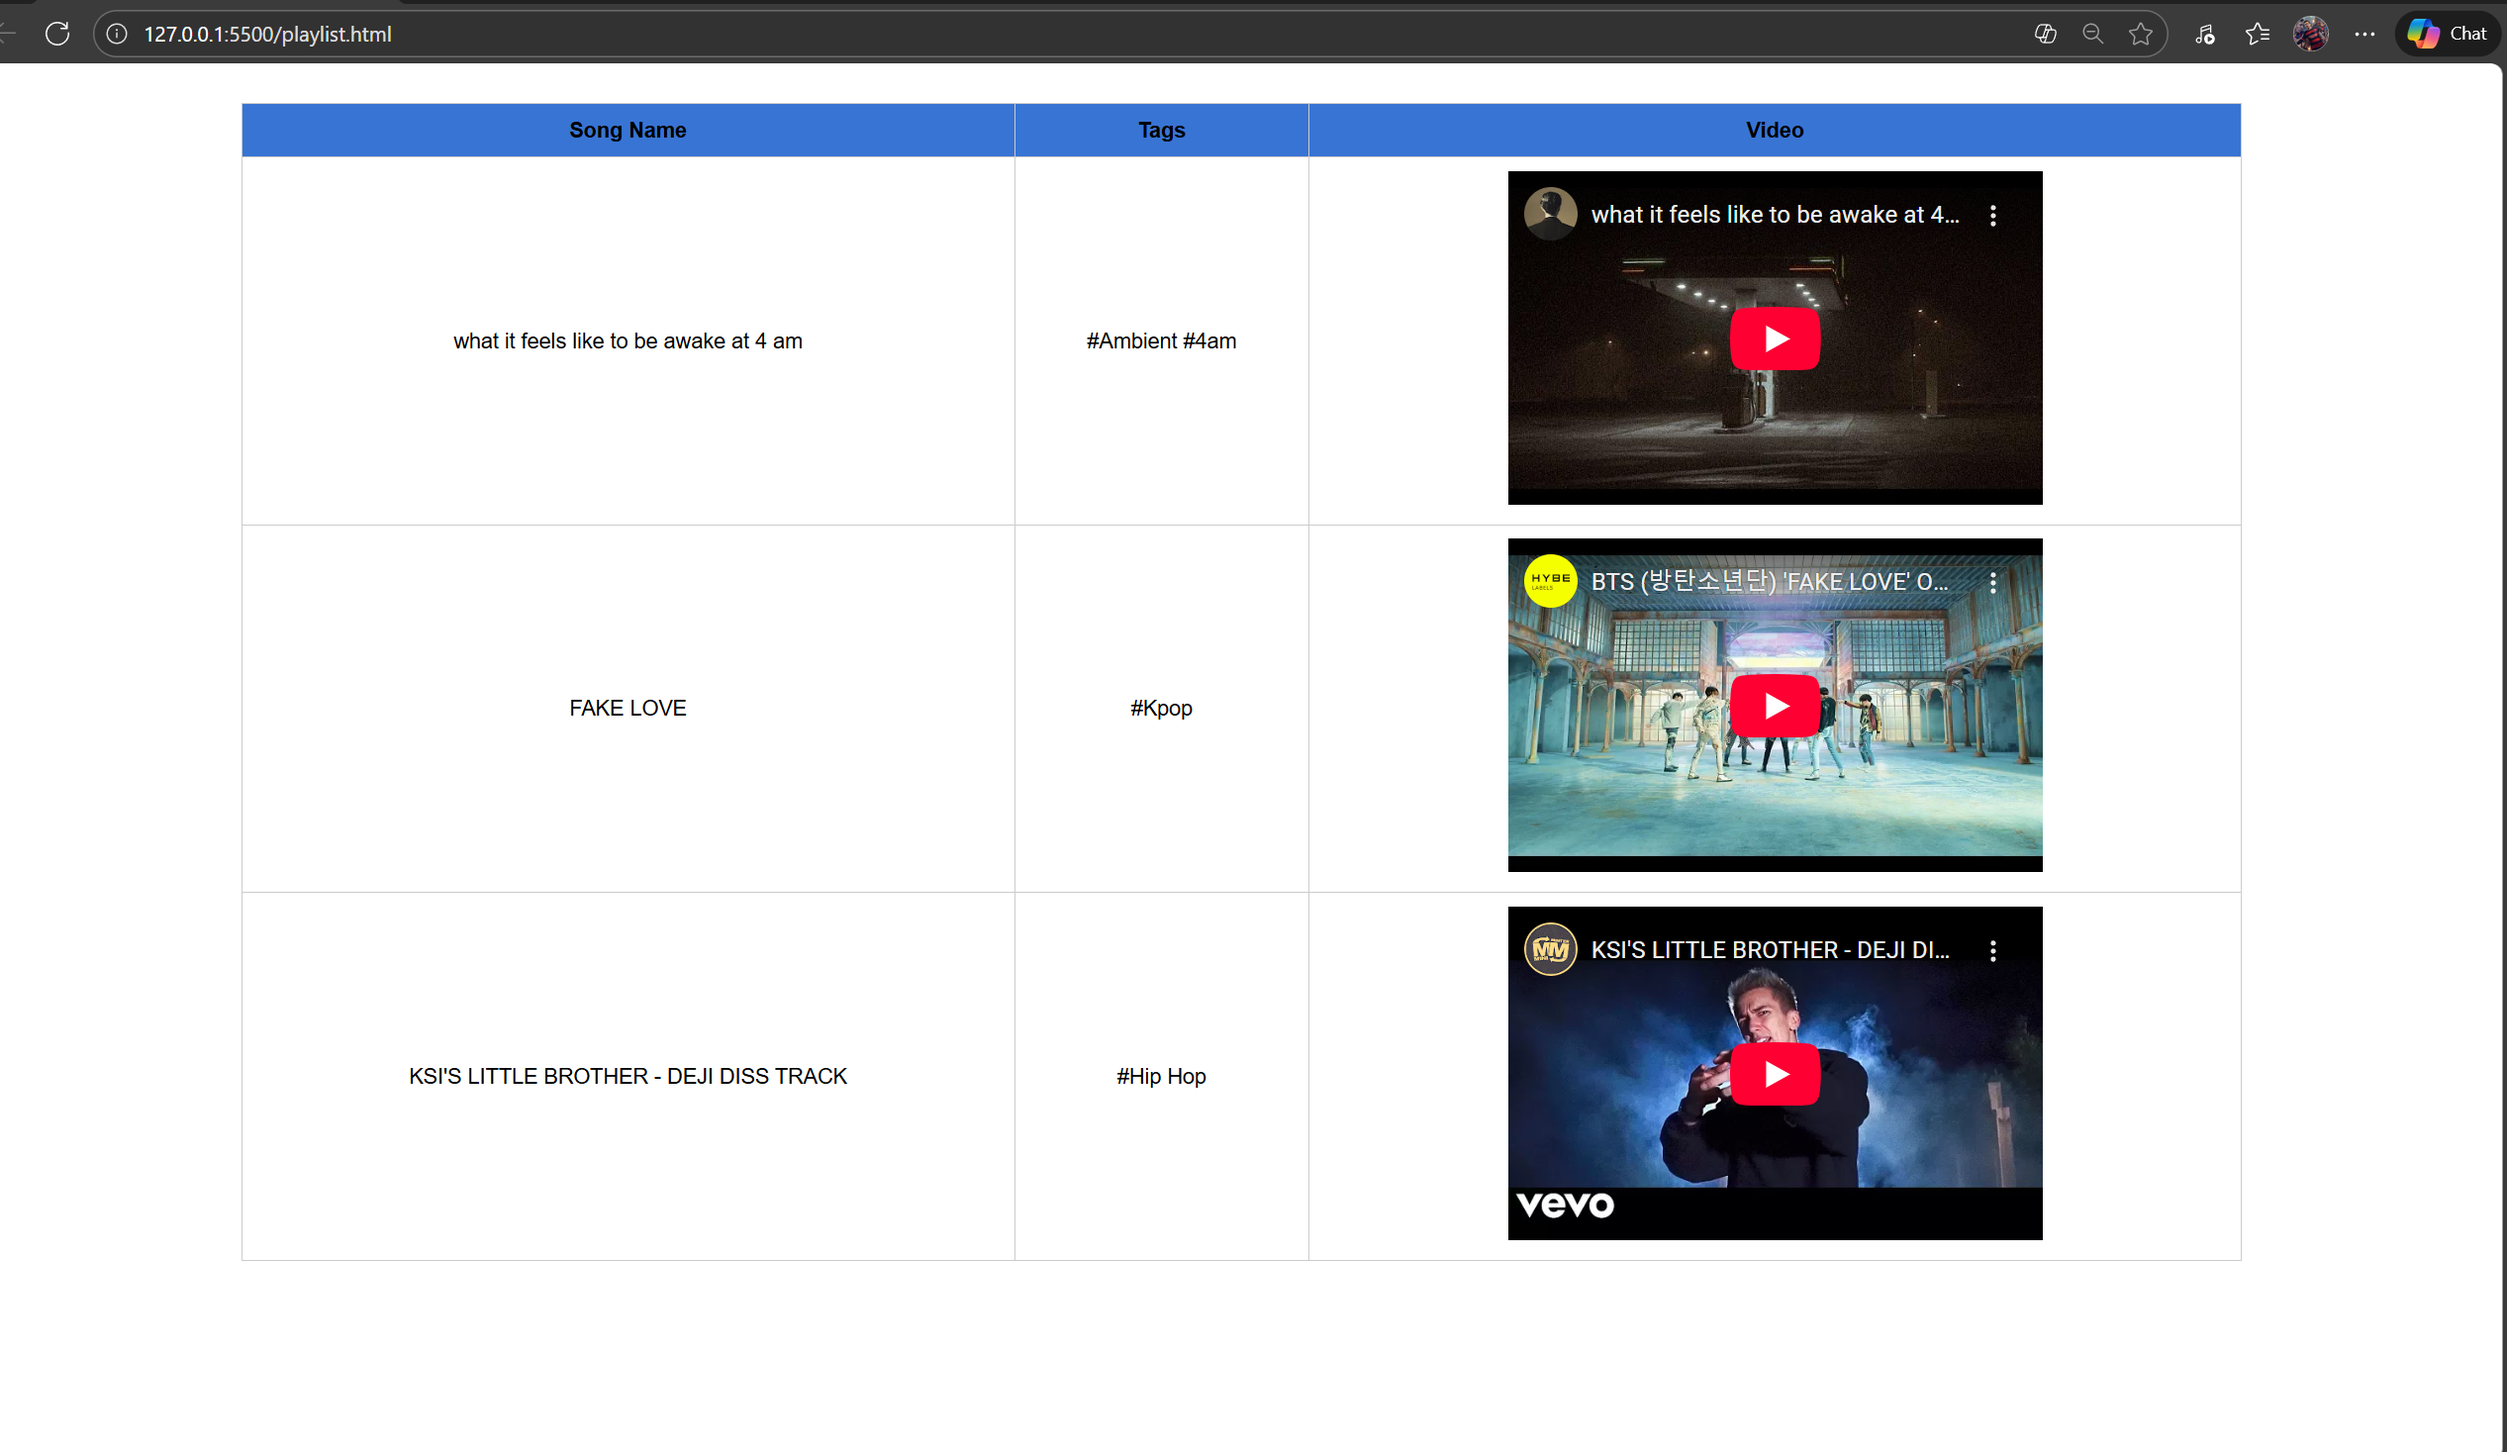
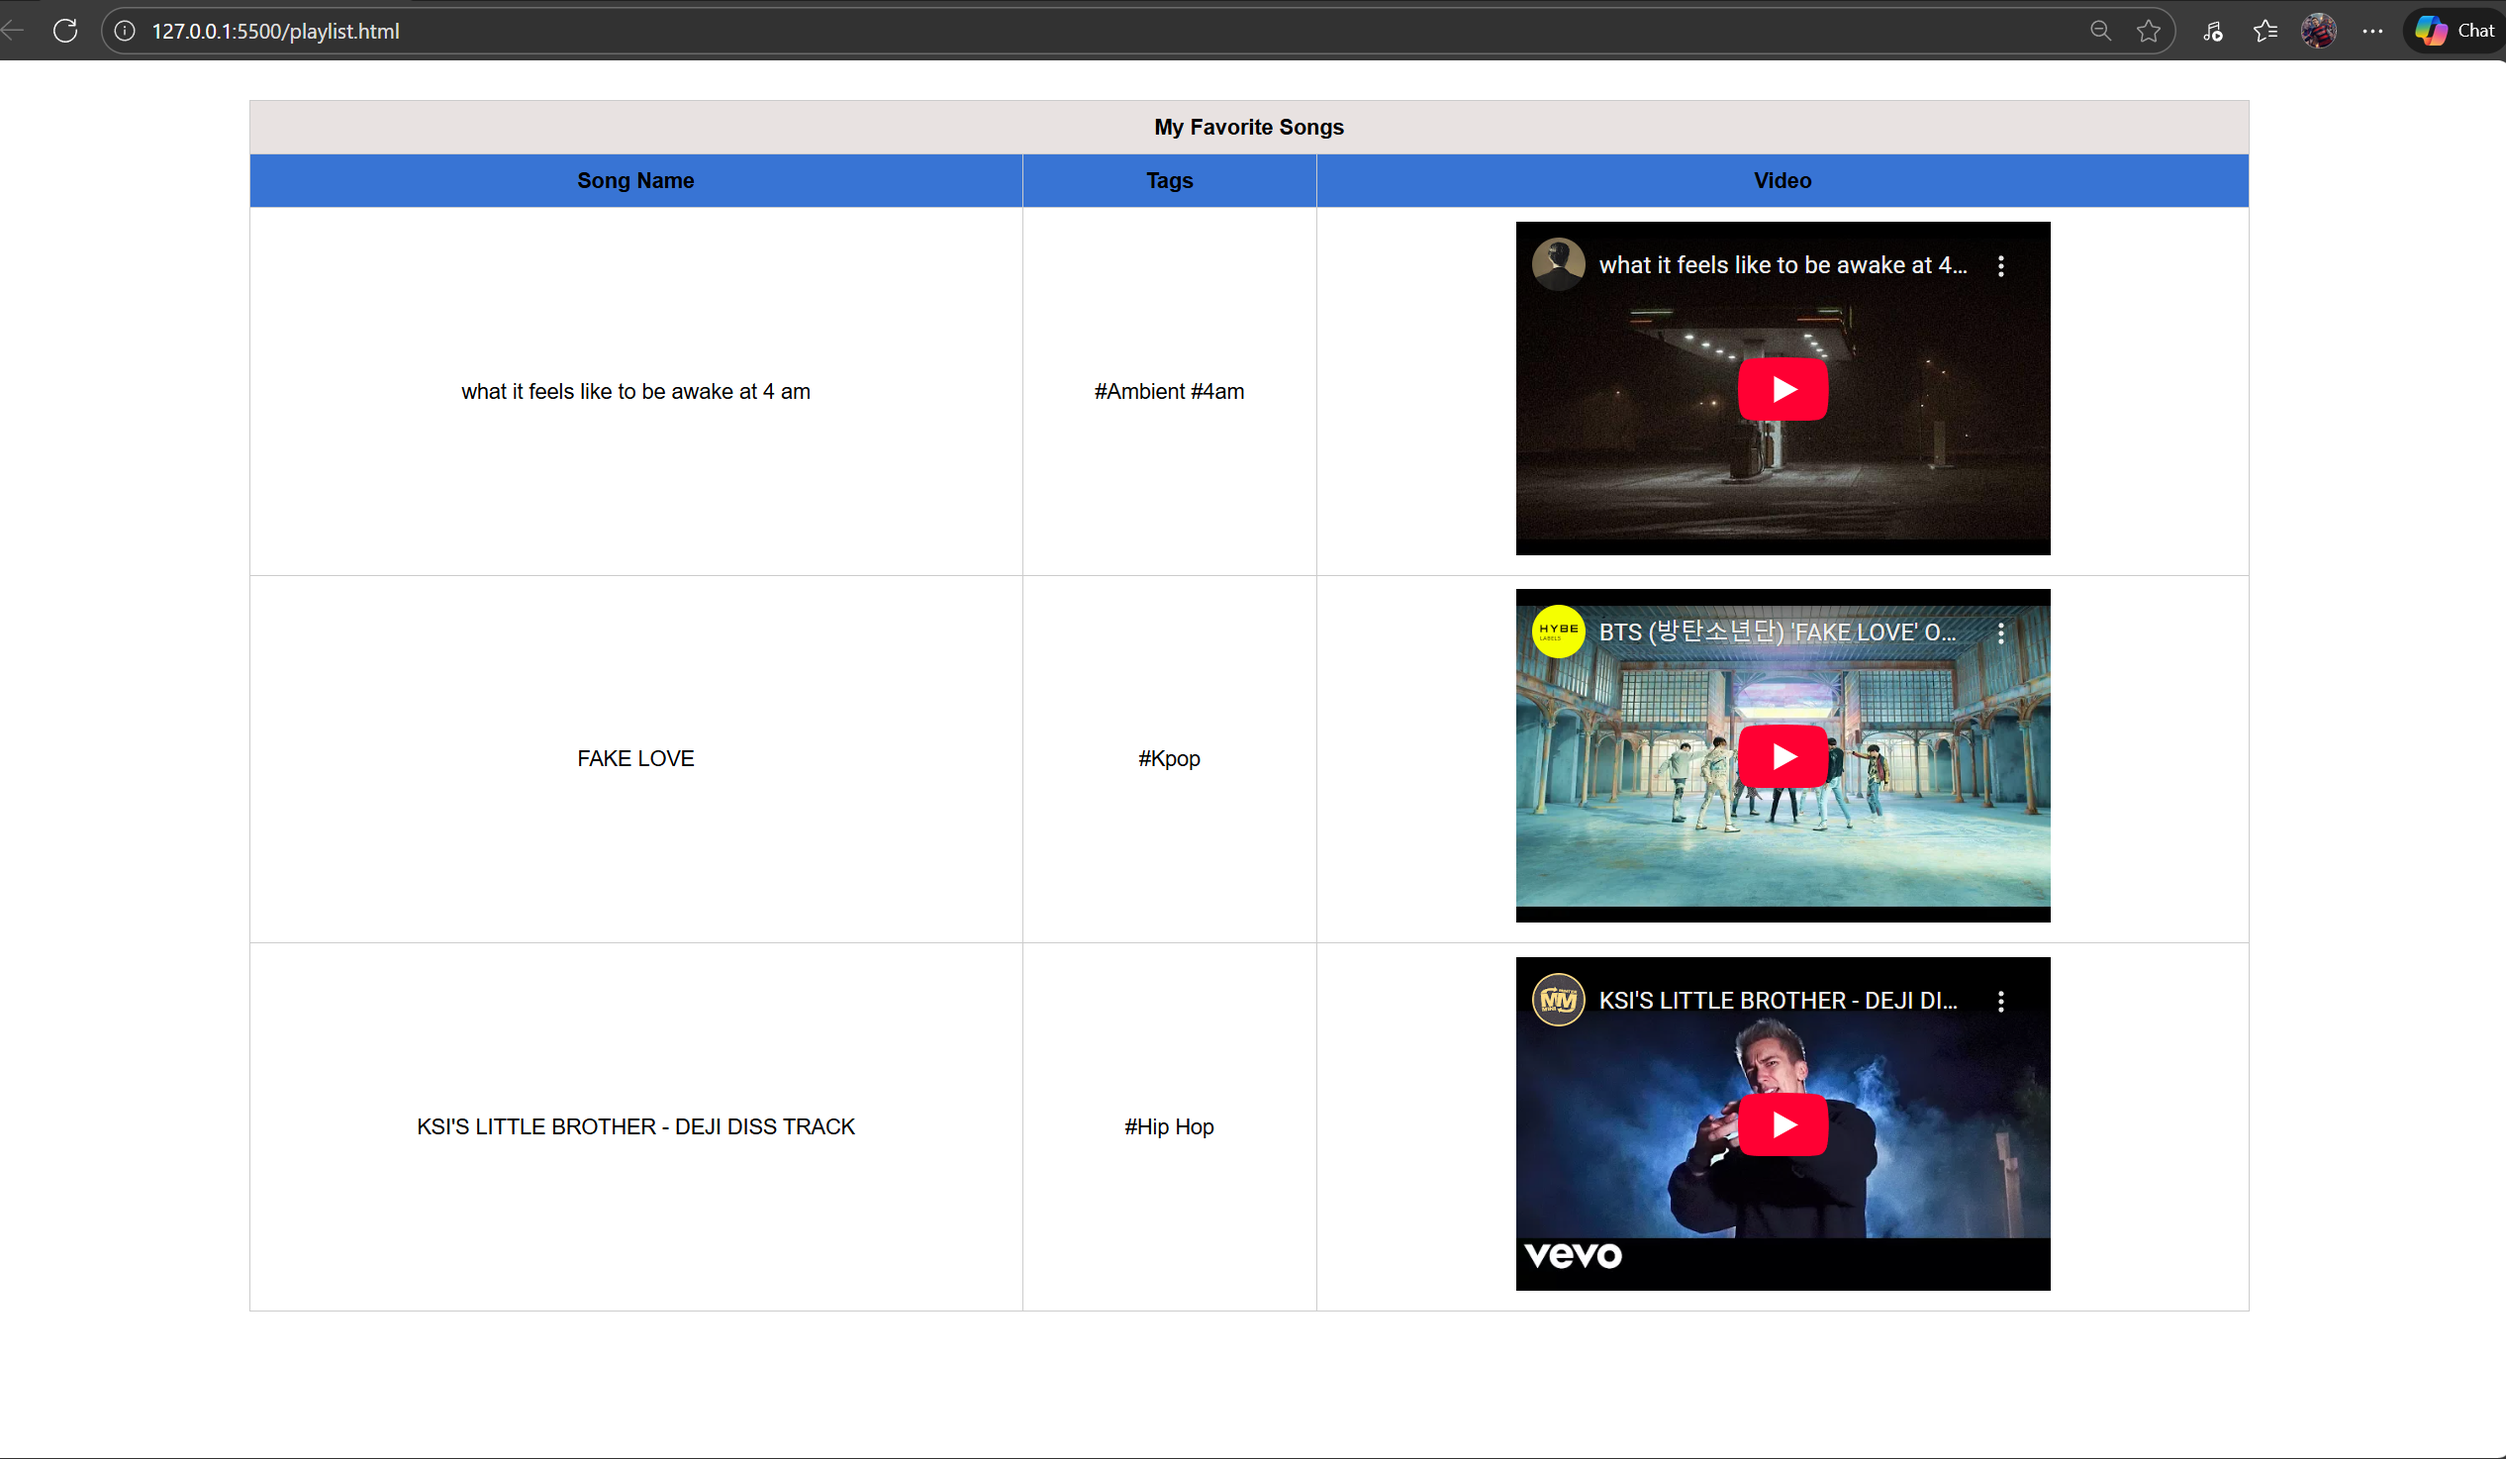
added more screenshots and edited the style of the site

diff --git a/01_HW/playlist.css b/01_HW/playlist.css
@@ -1,26 +1,46 @@
 table {
-      border-collapse: collapse;
-      width: 80%;
-      margin: 30px auto;
-      font-family: Arial, sans-serif;
-    }
-    th, td {
-      border: 1px solid #ccc;
-      text-align: center;
-      padding: 10px;
-    }
-    th {
-      background-color: #3874d4;
-    }
-    img {
-      width: 120px;
-      height: auto;
-      border-radius: 5px;
-    }
-    a {
-      color: #0073e6;
-      text-decoration: none;
-    }
-    a:hover {
-      text-decoration: underline;
-    }
+  border-collapse: collapse;
+  width: 80%;
+  margin: 30px auto;
+  font-family: Arial, sans-serif;
+}
+
+th,
+td {
+  border: 1px solid #ccc;
+  text-align: center;
+  padding: 10px;
+}
+
+th {
+  background-color: #3874d4;
+}
+
+img {
+  width: 120px;
+  height: auto;
+  border-radius: 5px;
+}
+
+a {
+  color: #0073e6;
+  text-decoration: none;
+}
+
+a:hover {
+  text-decoration: underline;
+}
+
+.top_title {
+  color: white;
+  background: blue;
+  border-width: 2px;
+  border-block-color: black;
+}
+
+.highlight_line {
+  background-color: lightcyan;
+  font-size: 20px;
+  color: darkblue;
+  font-weight: bold;
+}

diff --git a/01_HW/playlist.html b/01_HW/playlist.html
@@ -9,12 +9,17 @@
   <body>
     <table>
       <tr>
+        <td class="top_title" colspan="3" bgcolor="#E8E2E1">
+          <strong>My Favorite Songs</strong> 
+        </td>
+      </tr>
+      <tr>
         <th>Song Name</th>
         <th>Tags</th>
         <th>Video</th>
       </tr>
 
-      <tr>
+      <tr class="highlight_line">
         <td>what it feels like to be awake at 4 am</td>
         <td>#Ambient #4am</td>
         <td>
